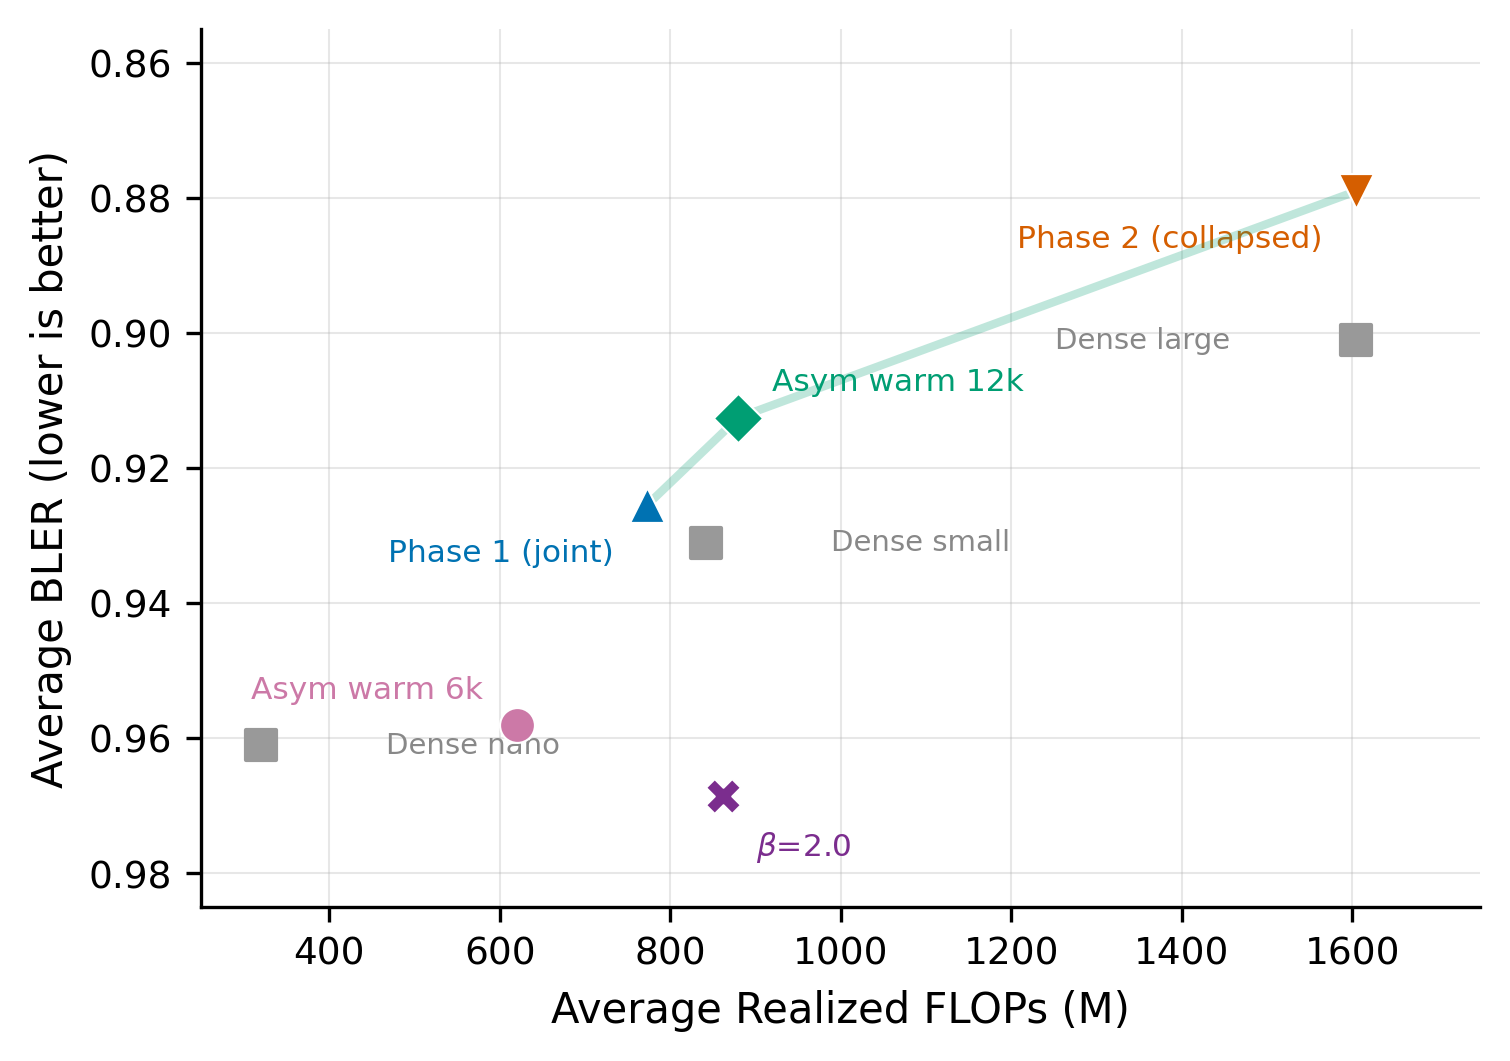
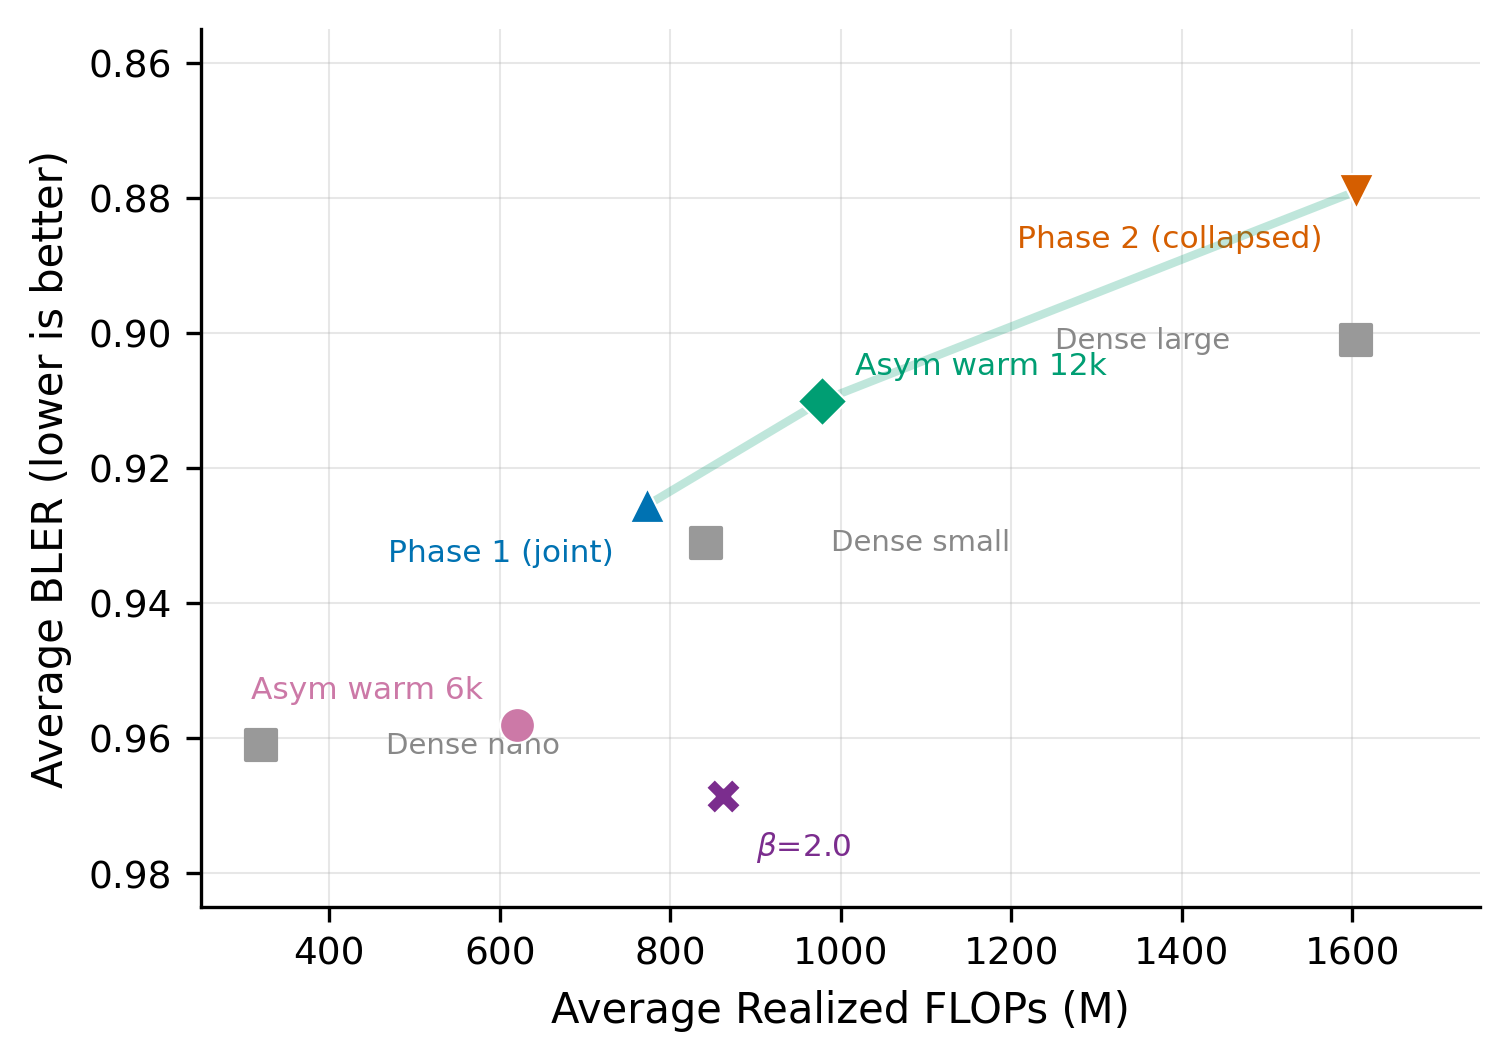
docs: update checkpoint report with test-split eval and adaptive routing finding

diff --git a/scripts/generate_checkpoint_figures.py b/scripts/generate_checkpoint_figures.py
@@ -66,7 +66,7 @@ def pareto_plot():
         ("Phase 1 (joint)", (917 + 628) / 2, (0.906 + 0.945) / 2, C_SMALL, "^"),
         ("Phase 2 (collapsed)", 1604, (0.835 + 0.923) / 2, C_RED, "v"),
         ("Asym warm 6k", (601 + 639) / 2, (0.945 + 0.971) / 2, C_ROSE, "o"),
-        ("Asym warm 12k", 880, (0.881 + 0.944) / 2, C_LARGE, "D"),
+        ("Asym warm 12k", (1100 + 856) / 2, (0.881 + 0.939) / 2, C_LARGE, "D"),
         (r"$\beta$=2.0", (860 + 864) / 2, (0.962 + 0.975) / 2, C_PURPLE, "X"),
     ]
     for name, flops, bler, color, marker in moe:
@@ -87,7 +87,9 @@ def pareto_plot():
         )
 
     # Pareto frontier
-    pareto = sorted([(1604, (0.835 + 0.923) / 2), (880, (0.881 + 0.944) / 2), ((917 + 628) / 2, (0.906 + 0.945) / 2)])
+    pareto = sorted(
+        [(1604, (0.835 + 0.923) / 2), ((1100 + 856) / 2, (0.881 + 0.939) / 2), ((917 + 628) / 2, (0.906 + 0.945) / 2)]
+    )
     ax.plot(*zip(*pareto), "-", color=C_LARGE, alpha=0.25, linewidth=2, zorder=3)
 
     ax.set_xlabel("Average Realized FLOPs (M)")

diff --git a/docs/checkpoint_report.md b/docs/checkpoint_report.md
@@ -100,7 +100,16 @@ The breakthrough came from attacking the root cause: **remove the warm-start adv
 At 6k steps, the router used only nano+small (large was still untrained). We extended the run to 12k steps using checkpoint resume, and **large "woke up"** — the router discovered it once it became competitive (~step 8000-10000).
 
 ![Expert Usage Over Training — Asymmetric Warm-Start](figures/expert_usage_asym_warm.png)
-*Figure 2: Expert usage during asymmetric warm-start training. Large (random init) initially dominates briefly, crashes to ~0% by step 2000, then re-emerges at step ~6550 as it trains up to competence. Final routing: 33% large, 29% nano, 38% small.*
+*Figure 2: Expert usage during asymmetric warm-start training. Large (random init) crashes to ~0% by step 2000, then re-emerges at step ~6550 as it trains up to competence.*
+
+Crucially, test-split evaluation reveals that the routing is **adaptive across channel profiles**:
+
+| Profile | large | nano | small | Realized FLOPs |
+|---|---|---|---|---|
+| **TDLC** (harder) | **45.5%** | 2.4% | 52.1% | 1100M |
+| **UMA** (easier) | 30.2% | 30.5% | 39.3% | 856M |
+
+The router allocates significantly more traffic to the large expert on the harder TDLC channel (45.5% vs 30.2%), while using more of the lightweight nano expert on the easier UMA channel (30.5% vs 2.4%). This is the compute-adaptive behaviour the architecture was designed for.
 
 ## 7. Preliminary Results
 
@@ -108,23 +117,22 @@ At 6k steps, the router used only nano+small (large was still untrained). We ext
 |---|---|---|---|---|
 | Dense large (baseline) | — | ~0.879 | 1604M | 100% |
 | Phase 2 v1 (collapsed) | 100% large | **0.879** | 1604M | 100% |
-| **Asym warm 12k** | **33/29/38** | **0.913** | **~880M** | **~55%** |
+| **Asym warm 12k** | **adaptive** | **0.910** | **978M** | **61%** |
 | Phase 1 s56 | 39/36/24 | 0.926 | 772M | 48% |
 
-The asymmetric warm-start run represents a genuine Pareto point: it trades 3.4 pp BLER compared to the dense large baseline for a **45% reduction in average FLOPs**, with all three experts actively contributing.
+The asymmetric warm-start run represents a genuine Pareto point: it trades 3.1 pp BLER compared to the dense large baseline for a **39% reduction in average FLOPs**, with the router adapting compute allocation to channel difficulty.
 
 We also identify a key characterisation finding: **opposite failure modes** in heterogeneous MoE training. Joint-from-scratch (Phase 1) over-penalises the expensive expert, while full warm-start (Phase 2) cannot escape the dominant expert. Asymmetric warm-start resolves this by letting the large expert earn its traffic through training rather than receiving it by default.
 
 ![BLER vs FLOPs Pareto Frontier](figures/pareto_bler_flops.png)
-*Figure 3: BLER vs FLOPs Pareto frontier. Grey squares are dense baselines. Coloured circles are MoE runs. The dashed line connects Pareto-optimal points. Asymmetric warm-start 12k (green) fills the gap between the collapsed Phase 2 (best BLER, max FLOPs) and Phase 1 (cheapest, worst BLER).*
+*Figure 3: BLER vs FLOPs Pareto frontier. Grey squares are dense baselines. Coloured circles are MoE runs. The line connects Pareto-optimal points. Asymmetric warm-start 12k (green) fills the gap between the collapsed Phase 2 (best BLER, max FLOPs) and Phase 1 (cheapest, worst BLER).*
 
 ## 8. Next Steps
 
-1. **Test-split evaluation** of asymmetric warm-start 12k to confirm validation numbers
-2. **SNR-binned routing analysis** — verify whether routing is adaptive (difficulty-dependent) or near-uniform
-3. **Extended training** (18k-20k steps) to see if BLER continues improving
-4. **Out-of-distribution evaluation** on DeepMIMO ray-traced channels to test generalisation
-5. **Pareto frontier visualisation** with confidence intervals across seeds
+1. **Extended training** (18k-20k steps) to see if BLER continues improving
+2. **SNR-binned routing analysis** — verify per-SNR expert selection within each profile
+3. **Out-of-distribution evaluation** on DeepMIMO ray-traced channels to test generalisation
+4. **Pareto frontier visualisation** with confidence intervals across seeds
 
 ## References
 
